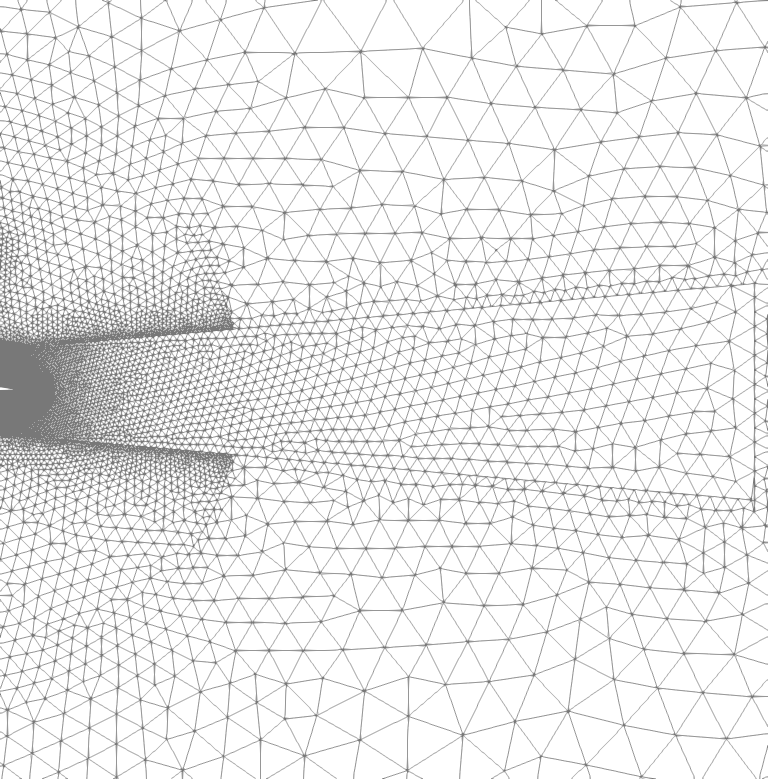
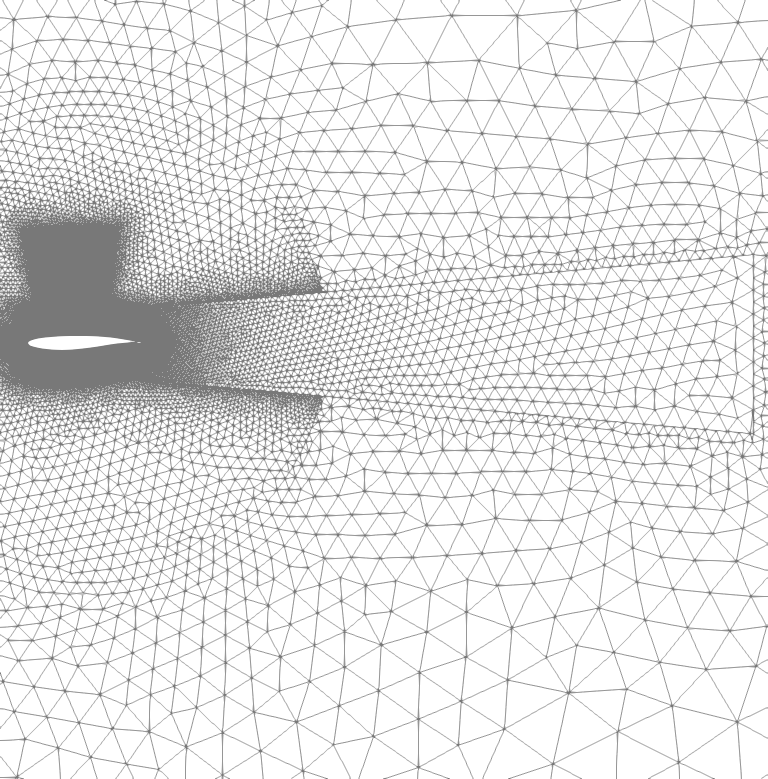
updated documentation

diff --git a/README.md b/README.md
@@ -119,7 +119,7 @@ Increases the number of mesh nodes distributed to the suction side of the airfoi
   </tr>
 </table>
 
-It is observed that the horizontal mesh length of one element in the buffet region is reduced from 0.0092 to 0.0085. Further refinement can be achieved by allocating fewer points in the trailing-edge region using the `weight_te` parameter, so that more points are distributed in the buffet zone.
+Note: Further refinement can be achieved by allocating fewer points in the trailing-edge region using the `weight_te` parameter, so that more points are distributed in the buffet zone.
 
 ### 3. `weight_curvature`
 
@@ -138,7 +138,7 @@ Increases the distribution of points where the curvature is high, i.e., near the
   </tr>
 </table>
 
-Note: When multiple weighting functions are applied simultaneously, their sensitivities can differ significantly. In some cases, one weighting parameter must be varied by orders of magnitude before its effect becomes noticeable. This behavior was observed when adjusting `weight_upper` and `weight_curvature` at the same time. In particular, a value of `weight_curvature = 100` was required before additional points appeared near the leading edge when increasing `weight_upper`.
+Note: When multiple weighting functions are applied simultaneously, their sensitivities can differ significantly.
 
 ### 4. `weight_te`
 
